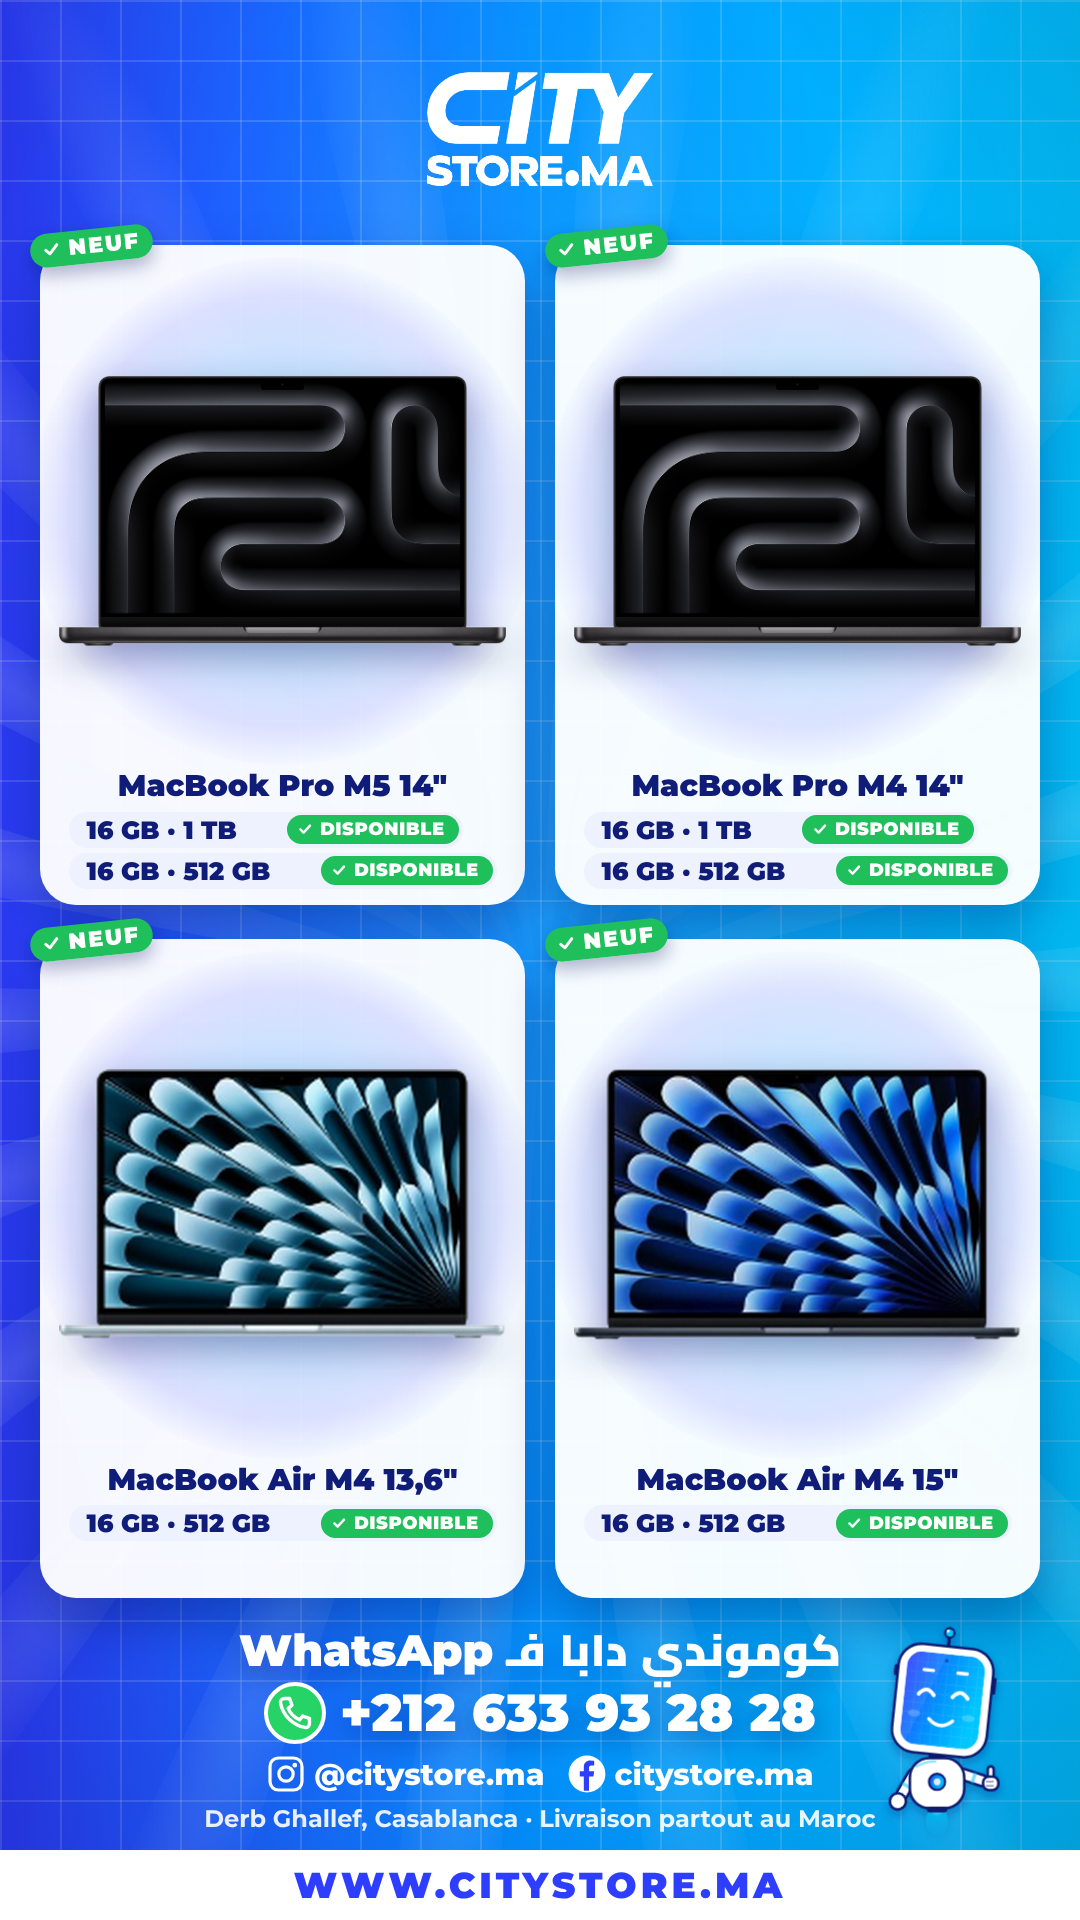
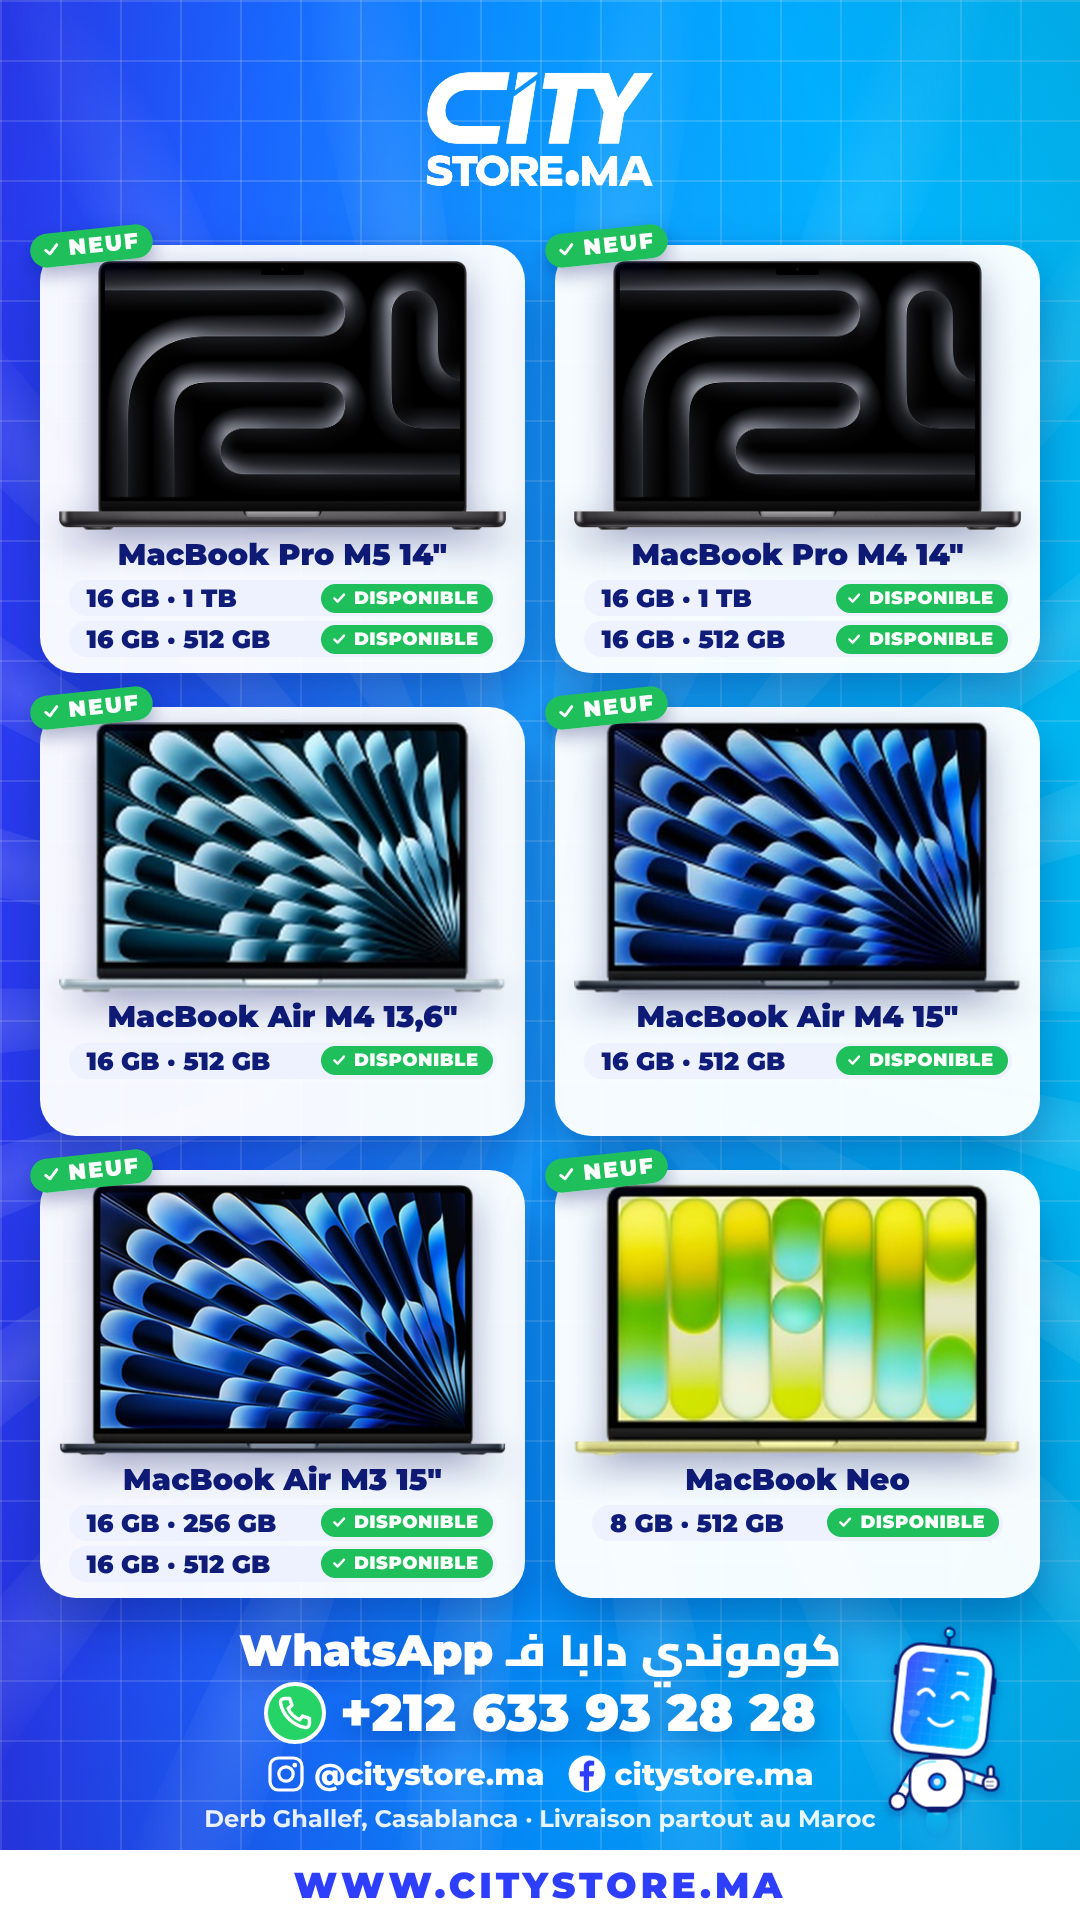
MacBook story: add MacBook Air M3 15" and MacBook Neo; equal-width size lines per card
Claude-Session: https://claude.ai/code/session_01B6UvVnyVQqoyQ1GwELGaCV

diff --git a/src/pricelist/PriceList.tsx b/src/pricelist/PriceList.tsx
@@ -82,7 +82,7 @@ const StockCard: React.FC<{ it: PriceItem; w: number; h: number; maxRows: number
       {it.spec && <div style={{ height: specH, display: "flex", alignItems: "center", fontFamily: FONT, fontWeight: 800, fontSize: 22, color: "#4A5594", whiteSpace: "nowrap" }}>{it.spec}</div>}
       <div style={{ marginTop: 8, height: sizesH, display: "flex", flexDirection: "column", gap: rowGap }}>
         {(it.stock ?? []).map((r) => (
-          <div key={r} style={{ height: rowH, width: Math.min(w - 40, Math.max(360, r.length * 17 + 190)), gap: 12, display: "flex", alignItems: "center", justifyContent: "space-between", background: "#EEF2FF", borderRadius: 999, padding: "0 4px 0 18px" }}>
+          <div key={r} style={{ height: rowH, width: Math.min(w - 40, Math.max(360, Math.max(...(it.stock ?? [r]).map((x) => x.length)) * 17 + 190)), gap: 12, display: "flex", alignItems: "center", justifyContent: "space-between", background: "#EEF2FF", borderRadius: 999, padding: "0 4px 0 18px" }}>
             <span style={{ fontFamily: FONT, fontWeight: 900, fontSize: 25, color: INK, whiteSpace: "nowrap" }}>{r}</span>
             <span style={{ display: "inline-flex", alignItems: "center", gap: 5, background: GREEN, color: "#fff", fontFamily: FONT, fontWeight: 900, fontSize: 18, letterSpacing: 0.5, padding: "3px 14px 4px 8px", borderRadius: 999 }}>
               <LineIcon name="check" size={20} stroke={12} color="#fff" />DISPONIBLE

diff --git a/src/pricelist/lists.ts b/src/pricelist/lists.ts
@@ -53,6 +53,8 @@ export const PRICE_LISTS: Record<string, PriceListProps> = {
       { name: 'MacBook Pro M4 14"', img: "pricelist/macbooks/pro14.png", stock: ["16 GB · 1 TB", "16 GB · 512 GB"] },
       { name: 'MacBook Air M4 13,6"', img: "pricelist/macbooks/air13.png", stock: ["16 GB · 512 GB"] },
       { name: 'MacBook Air M4 15"', img: "pricelist/macbooks/air15.png", stock: ["16 GB · 512 GB"] },
+      { name: 'MacBook Air M3 15"', img: "pricelist/macbooks/air15_m3.png", stock: ["16 GB · 256 GB", "16 GB · 512 GB"] },
+      { name: "MacBook Neo", img: "pricelist/macbooks/neo.png", stock: ["8 GB · 512 GB"] },
     ].map((p) => ({ ...p, condition: "neuf" as const })),
   },
 };

diff --git a/assets/pricelist/macbooks/SOURCES.md b/assets/pricelist/macbooks/SOURCES.md
@@ -6,3 +6,5 @@ Transparent PNGs supplied by City Store (originals in `src/`), trimmed; 301 px o
 - MacBook Air M4 15": `macbook_air_15_midnight.png` (Midnight) -> `air15.png`.
 Configurations as given by City Store: Pro M5 14" 16 GB / 1 TB + 16 GB / 512 GB; Pro M4 14" 16 GB / 1 TB + 16 GB / 512 GB;
 Air M4 13,6" 16 GB / 512 GB; Air M4 15" 16 GB / 512 GB.
+- MacBook Air M3 15": `macbook_air_m3_15_midnight.webp` (1000 px, Midnight) -> `air15_m3.png`. 16 GB / 256 GB + 16 GB / 512 GB.
+- MacBook Neo: `macbook_neo_yellow.png` (301 px, yellow) -> `neo.png` (upscaled 3x). 8 GB / 512 GB.
